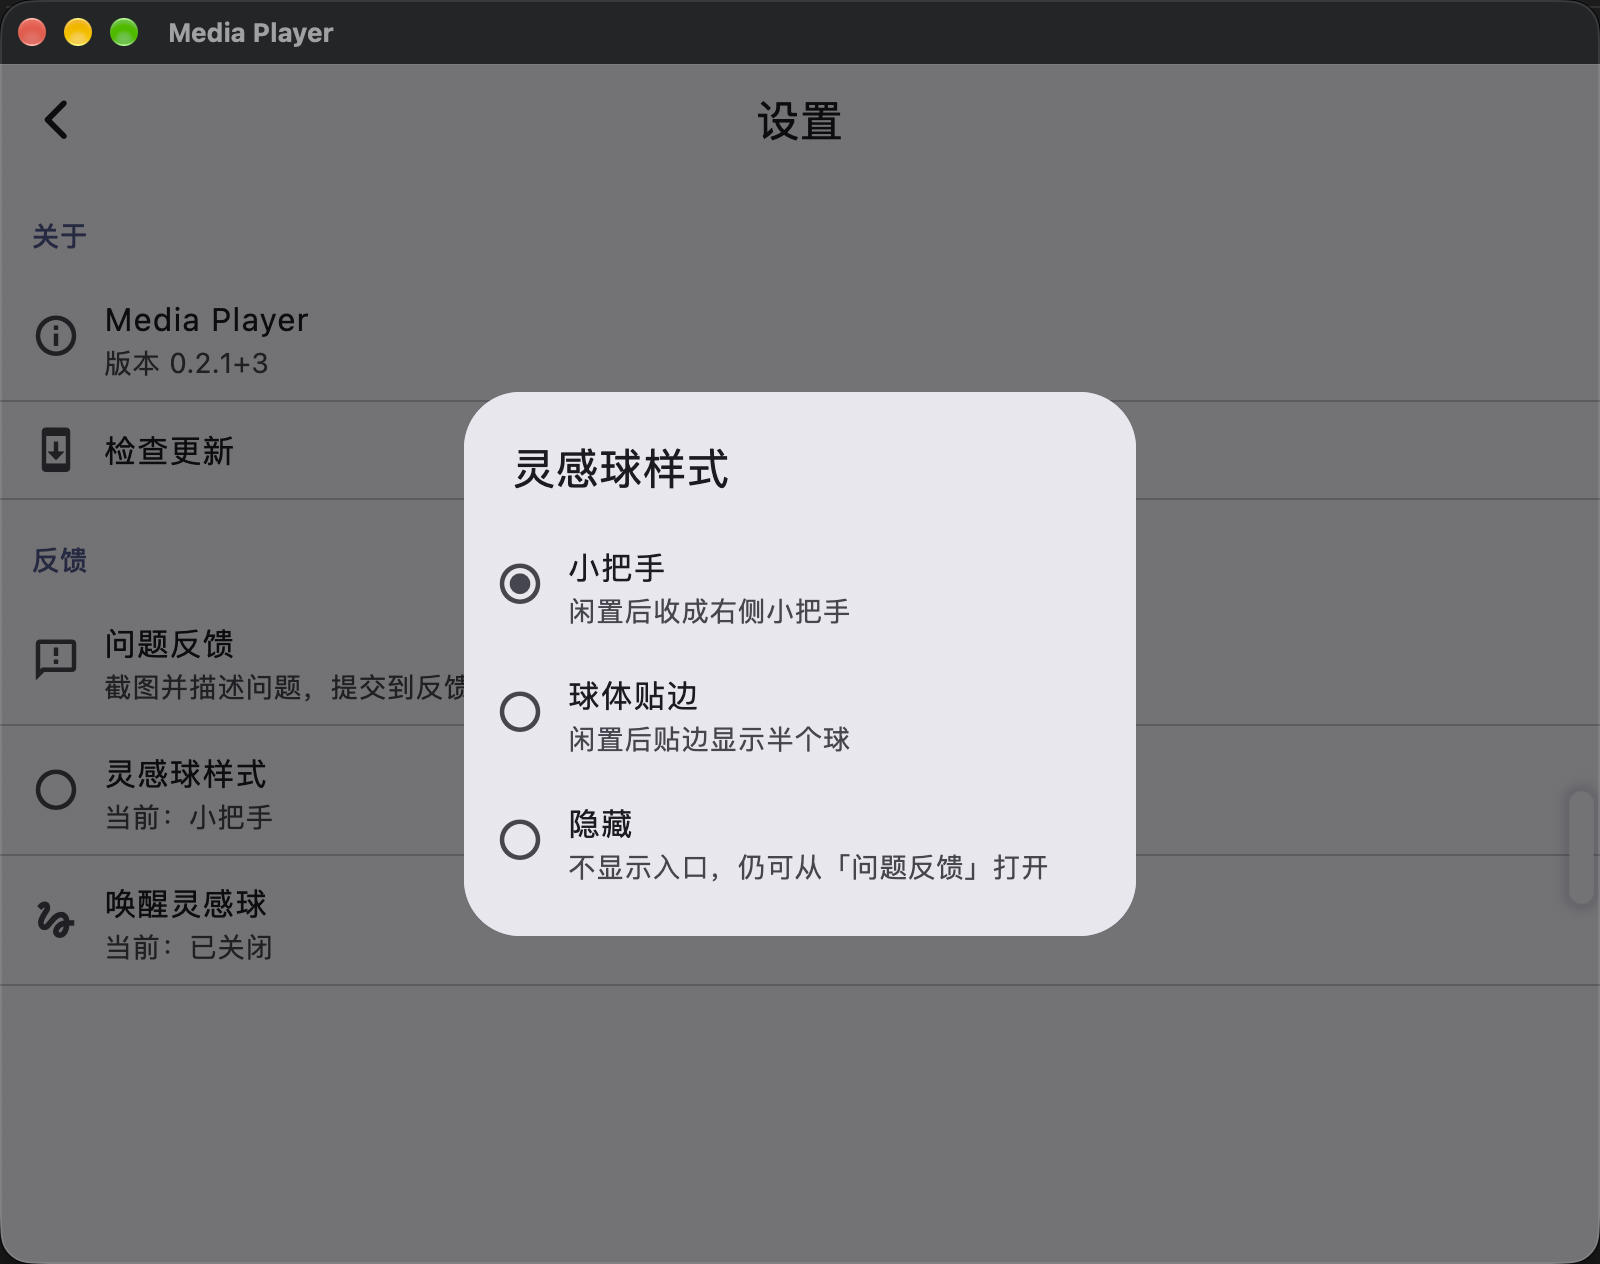
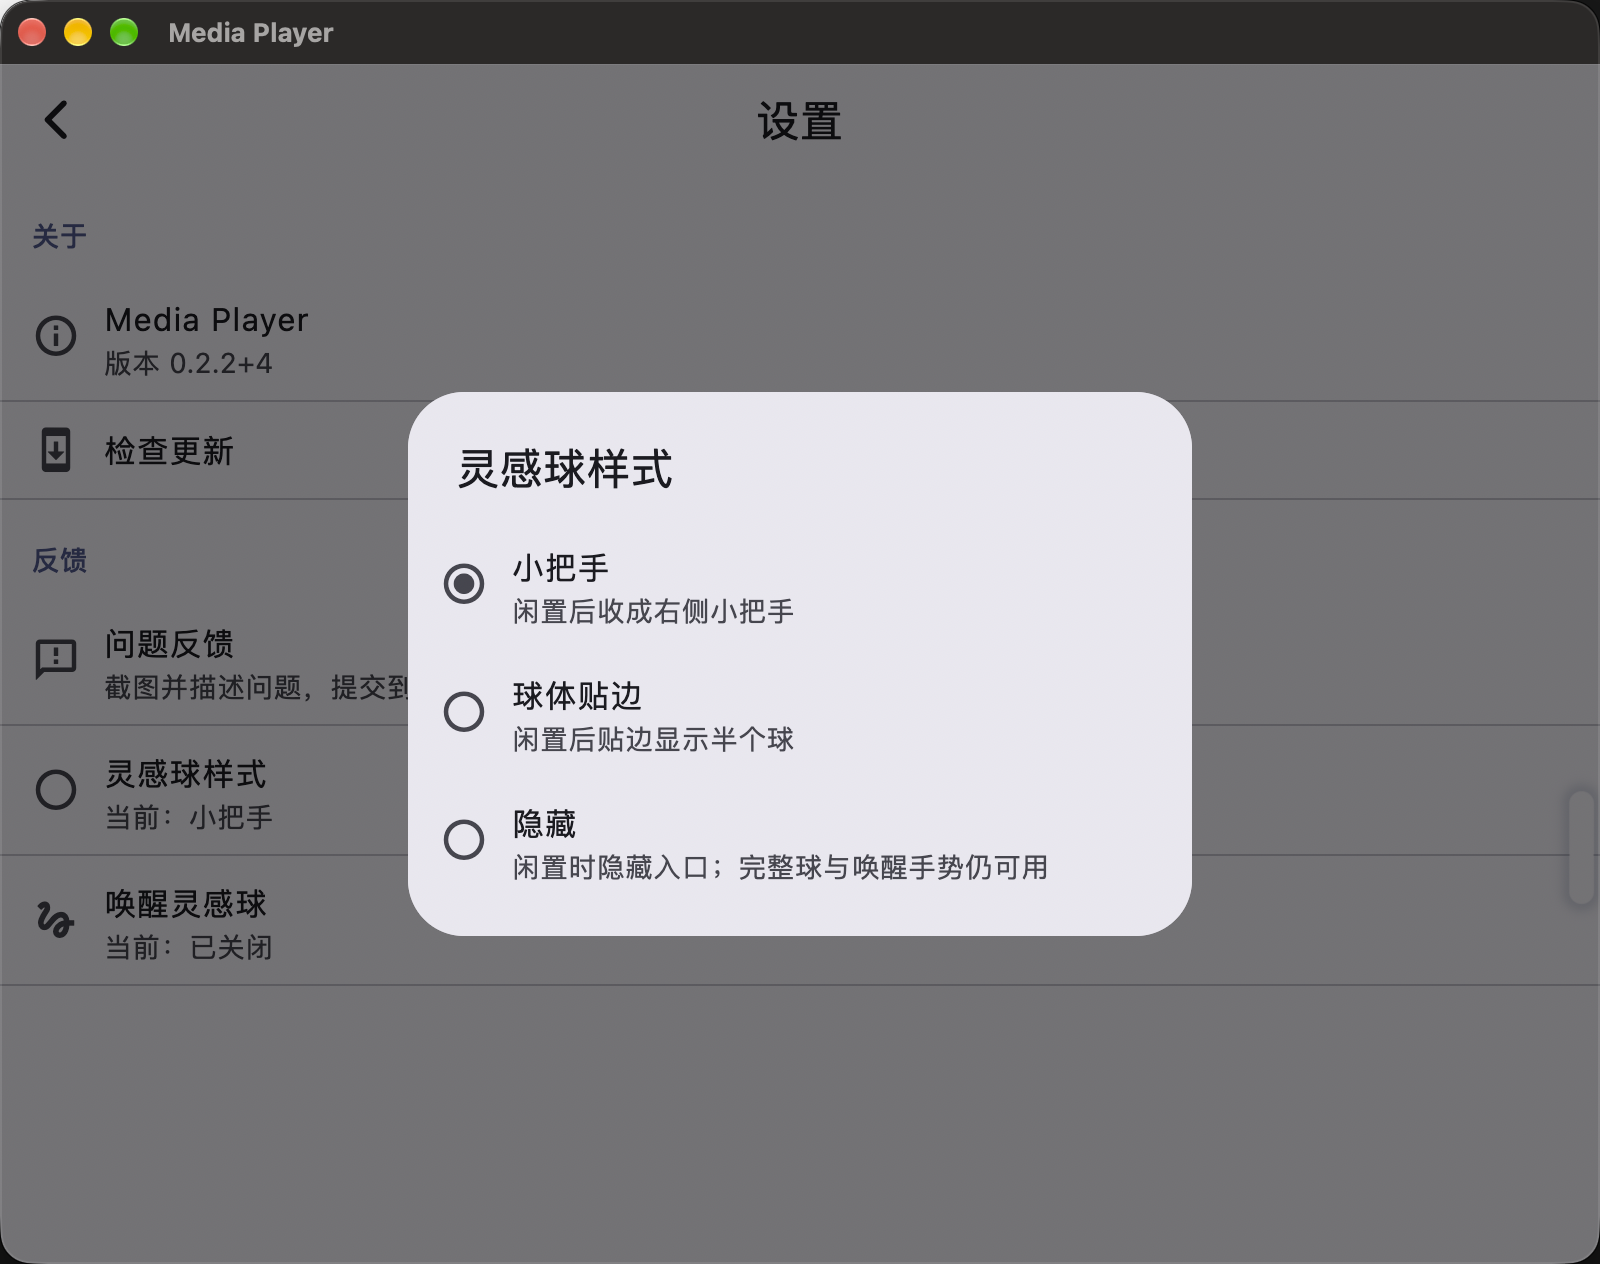
docs: record the v0.2.2 release and the 0.8.5 hidden-orb semantics

diff --git a/docs/f4-notes.md b/docs/f4-notes.md
@@ -2,8 +2,8 @@
 
 - 日期：2026-11-02（本地 Asia/Taipei；验证跨至 11-03 凌晨）
 - 范围：接入 Feedback 组件（`feedback_widget` 0.8.4）、设置页、GitHub Releases 在线更新、发布工作流
-- 版本：`v0.2.1`（`0.2.1+3`）已发布；本轮升级 `feedback_widget` 至 0.8.5 并准备发布 `v0.2.2`（`0.2.2+4`）
-- 结论：**`v0.2.0` 与 `v0.2.1` 均已发布；灵感球设置增补已随 `v0.2.1` 上线，真机体验待确认**
+- 版本：`v0.2.2`（`0.2.2+4`）已发布，升级 `feedback_widget` 至 0.8.5（含 v0.2.1 的灵感球设置）
+- 结论：**`v0.2.0`、`v0.2.1`、`v0.2.2` 均已发布；0.8.5 的「隐藏」语义修正已随 v0.2.2 上线，真机体验待确认**
 
 ## 1. 已确认的决定
 
@@ -143,11 +143,25 @@ GitHub Releases `latest` JSON、资产 `digest`（SHA-256）与 zip 字节。
 - 下载复算 SHA-256 与 GitHub digest 一致；三个 latest 下载链接均返回 200。
 - 下载地址：<https://github.com/SakuraLoveSmile/Media-Player/releases/tag/v0.2.1>。
 
+### 3.5 真实 Release 核验（v0.2.2）
+
+- 依赖 `feedback_widget` 0.8.5（tag `v0.8.5`，commit `95e4a9c`）；`app-ci` 在 tag 前提交
+  `32e94e3` 全绿，release 流水线 5 个 job 全部 success。
+- 最新 Release 为 `v0.2.2`（非草稿/非预发布），三资产齐全：
+  - `MediaPlayer-android.apk` 99,520,478B（`sha256:f4aad54e…`），`versionCode=4`、
+    `versionName=0.2.2`，签名证书与本地 debug keystore 相同；
+  - `MediaPlayer-windows-x64.zip` 34,154,904B（`sha256:2f127730…`）；
+  - `MediaPlayer-macos.zip` 37,048,264B（`sha256:0bd2fed5…`），解包后 `0.2.2/4`。
+- 下载复算 SHA-256 与 GitHub digest 一致；三个 latest 链接均返回 200。
+- 设置页「隐藏」说明与真实 app 截图已更新为新语义；下载地址：
+  <https://github.com/SakuraLoveSmile/Media-Player/releases/tag/v0.2.2>。
+
 ## 4. 未闭环与后续
 
-1. **真实发布**：已完成 `v0.2.0`（`aae388c`）与 `v0.2.1`（`557d67b`）。
-   在线更新体验：v0.2.0 用户应在启动/检查更新时看到 v0.2.1，并完成下载与安装；
-   设置页新增「灵感球样式 / 唤醒灵感球」。发布步骤见 `docs/release.md`。
+1. **真实发布**：已完成 `v0.2.0`（`aae388c`）、`v0.2.1`（`557d67b`）与 `v0.2.2`
+   （`32e94e3`）。在线更新体验：旧版用户应在启动/检查更新时看到最新 Release 并完成
+   下载与安装；设置页的「灵感球样式 / 唤醒灵感球」随 v0.2.1 起可用。发布步骤见
+   `docs/release.md`。
 2. **真机安装**：Android 首次需要系统「安装未知应用」授权；macOS 替换安装目录需要写权限；
    Windows 更新脚本尚未真实执行。
 3. **反馈线上闭环**：真实账号登录、截图提交、管理端确认来源（需要反馈服务账号）。

diff --git a/README.md b/README.md
@@ -14,7 +14,7 @@
   - F2：媒体库页在 macOS 实机加载 13 个视图与真实海报（见 `docs/f2-notes.md`）
   - B5 + F3：macOS release 与 Android（Mi 10）真机直连起播、暂停跨心跳、退出位置落盘、续播误差 <1s、退出会话归零（见 `docs/b5-notes.md`）
   - M2：macOS + Android 已签核（见 `docs/m2-signoff.md`）；Windows 拆为 M2-W，验收条件见契约 §8.1
-  - F4：反馈组件（feedback_widget 0.8.4）+ 设置页 + 在线更新（检查/下载/三平台安装）已实现并发布 `v0.2.1`（见 `docs/f4-notes.md`）；真机更新体验待确认
+  - F4：反馈组件（feedback_widget 0.8.4）+ 设置页 + 在线更新（检查/下载/三平台安装）已实现并发布 `v0.2.2`（见 `docs/f4-notes.md`）；真机更新体验待确认
   - WAN、PGS、HDR：待验证
 
 ## 文档

diff --git a/docs/README.md b/docs/README.md
@@ -1,6 +1,6 @@
 # MediaPlayer（Emby 客户端）文档索引
 
-当前阶段：**M0 已签核；B1–B5 数据层与 F1–F3 界面完成；M2（macOS + Android）已签核；F4 反馈组件与在线更新已实现并发布 `v0.2.1`；Windows 拆为 M2-W，条件已冻结、待验收；WAN、PGS/HDR 待验证。**
+当前阶段：**M0 已签核；B1–B5 数据层与 F1–F3 界面完成；M2（macOS + Android）已签核；F4 反馈组件与在线更新已实现并发布 `v0.2.2`；Windows 拆为 M2-W，条件已冻结、待验收；WAN、PGS/HDR 待验证。**
 
 ## 文档
 
